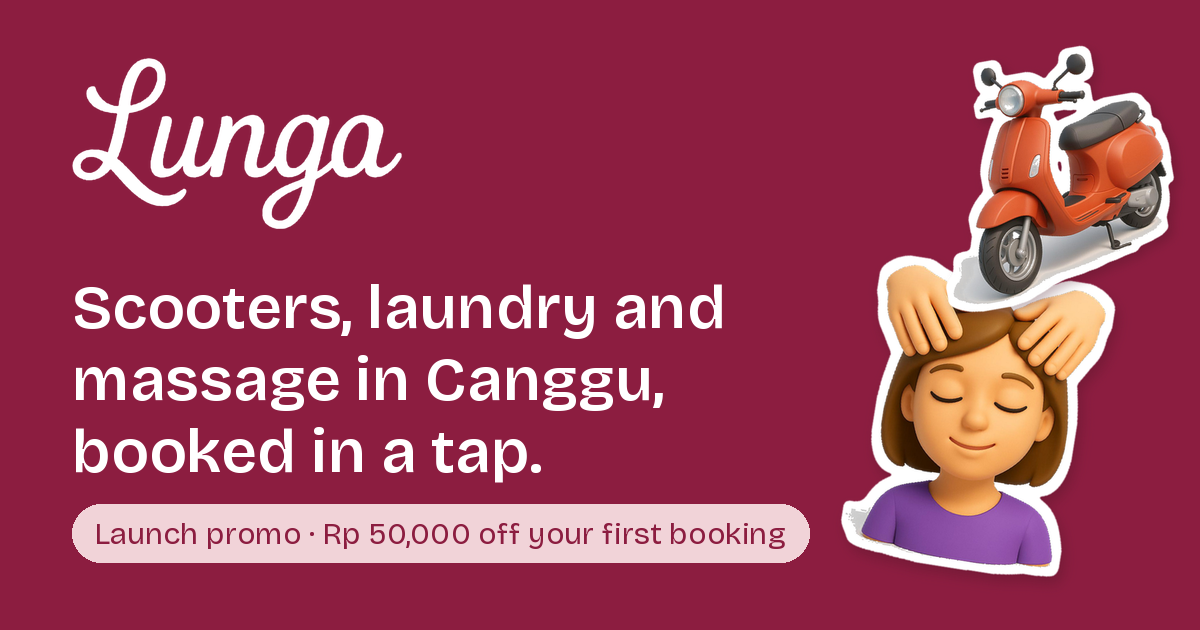
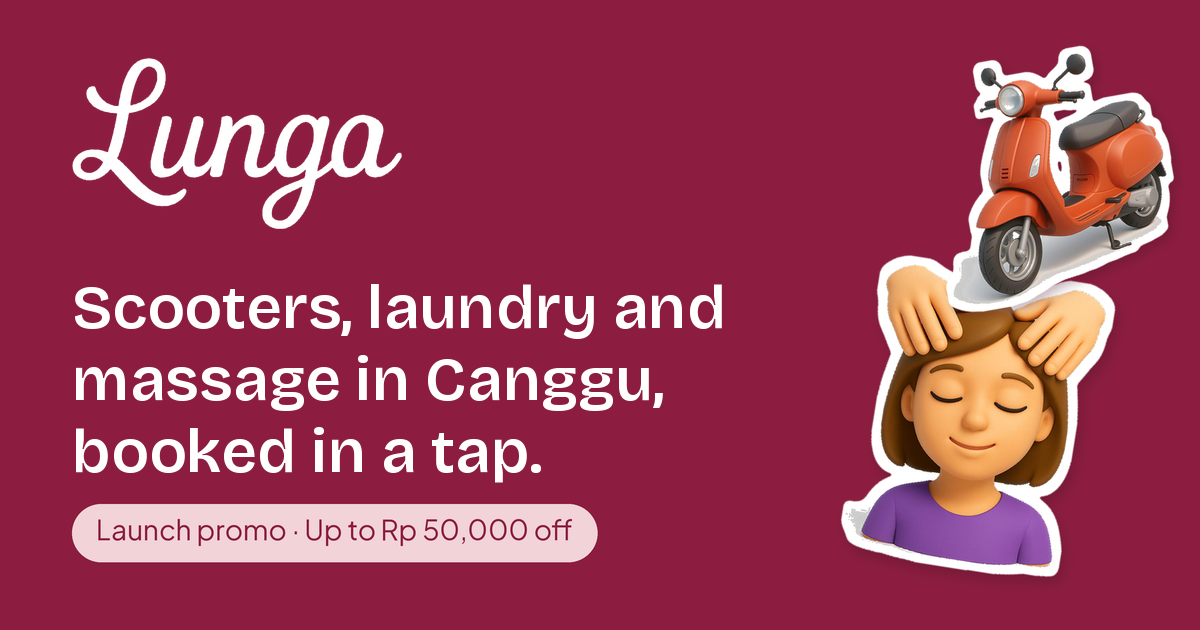
Lunga waitlist: 20% off first booking, up to Rp 50,000 (no minimum)

Changed region(s): [[0.0617, 0.7841, 0.6783, 0.9048]]

diff --git a/lunga/index.html b/lunga/index.html
@@ -4,12 +4,12 @@
 <meta charset="utf-8">
 <meta name="viewport" content="width=device-width, initial-scale=1, viewport-fit=cover">
 <title>Lunga Waitlist</title>
-<meta name="description" content="Scooters, laundry and massage in Canggu, booked in a tap. Join the waitlist for our launch promo, Rp 50,000 off your first booking.">
+<meta name="description" content="Scooters, laundry and massage in Canggu, booked in a tap. Join the waitlist for our launch promo, up to Rp 50,000 off your first booking.">
 <link rel="canonical" href="https://paradigmshiftapp.com/lunga/">
 <meta property="og:type" content="website">
 <meta property="og:site_name" content="Lunga">
 <meta property="og:title" content="Lunga · Scooters, laundry and massage in Canggu">
-<meta property="og:description" content="Scooters, laundry and massage in Canggu, booked in a tap. Join the waitlist for our launch promo, Rp 50,000 off your first booking.">
+<meta property="og:description" content="Scooters, laundry and massage in Canggu, booked in a tap. Join the waitlist for our launch promo, up to Rp 50,000 off your first booking.">
 <meta property="og:url" content="https://paradigmshiftapp.com/lunga/">
 <meta property="og:image" content="https://paradigmshiftapp.com/lunga/og.png">
 <meta property="og:image:width" content="1200">
@@ -178,9 +178,9 @@ footer .mail { user-select: all; color: var(--ink); font-weight: 600; }
   <section class="signup" id="join" aria-labelledby="join-title">
     <div id="join-form-wrap">
       <form id="waitlist-form" novalidate>
-        <span class="perk">Launch promo · Rp 50,000 off</span>
+        <span class="perk">Launch promo · Up to Rp 50,000 off</span>
         <h2 id="join-title">Join the waitlist</h2>
-        <p class="sub">Sign up before launch and we'll email you a Rp 50,000 code for your first booking of Rp 300,000 or more. Limited time only.</p>
+        <p class="sub">Sign up before launch and we'll email you a code for 20% off your first laundry, scooter or massage, up to Rp 50,000. Limited time only.</p>
         <div class="field">
           <label for="email">Email</label>
           <input id="email" name="email" type="email" autocomplete="email" inputmode="email" placeholder="you@example.com" required>
@@ -215,9 +215,9 @@ footer .mail { user-select: all; color: var(--ink); font-weight: 600; }
       </form>
     </div>
     <div id="done" class="done" hidden>
-      <span class="perk">Launch promo · Rp 50,000 off</span>
+      <span class="perk">Launch promo · Up to Rp 50,000 off</span>
       <h2 id="done-title">You're on the list</h2>
-      <p id="done-text">We'll email your Rp 50,000 code when Lunga launches. Know someone heading to Bali? Send them the link.</p>
+      <p id="done-text">We'll email your launch promo code when Lunga launches. Know someone heading to Bali? Send them the link.</p>
       <button class="ghost" type="button" id="share">Share Lunga</button>
       <p id="share-status" class="status note" role="status" aria-live="polite"></p>
     </div>
@@ -259,7 +259,7 @@ footer .mail { user-select: all; color: var(--ink); font-weight: 600; }
       <details><summary>When does Lunga launch?</summary><p>Soon. Join the waitlist and you'll be the first to know.</p></details>
       <details><summary>Where does it work?</summary><p>Canggu, Pererenan and Seseh first, then more of Bali.</p></details>
       <details><summary>How do I pay?</summary><p>By card in the app, with prices in rupiah. You pay when you book, and if a business can't take your booking, you get your money back.</p></details>
-      <details><summary>How does the launch promo work?</summary><p>Join before launch and we'll email you a code for Rp 50,000 off your first booking of Rp 300,000 or more, such as a few days' scooter rental. It's a limited-time launch promo, one code per person, while it lasts.</p></details>
+      <details><summary>How does the launch promo work?</summary><p>Join before launch and we'll email you a code for 20% off your first booking, up to Rp 50,000, whether it's a laundry, a scooter or a massage. Use it within 30 days of launch. It's a limited-time launch promo, one code per person, while it lasts.</p></details>
       <details><summary>Is there an app to download?</summary><p>Yes. Lunga is coming to iPhone and Android.</p></details>
     </div>
   </section>
@@ -299,7 +299,7 @@ const LUNGA_CONFIG = {
   function showDone(already) {
     if (already) {
       $("done-title").textContent = "You're already on the list";
-      $("done-text").textContent = "No need to sign up twice. We'll email your Rp 50,000 code when Lunga launches.";
+      $("done-text").textContent = "No need to sign up twice. We'll email your launch promo code when Lunga launches.";
     }
     $("join-form-wrap").hidden = true; $("done").hidden = false; $("done-title").setAttribute("tabindex", "-1"); $("done-title").focus();
   }
@@ -337,7 +337,7 @@ const LUNGA_CONFIG = {
 
   $("share").addEventListener("click", async () => {
     const url = LUNGA_CONFIG.shareUrl + "?ref=friend";
-    const text = "Scooters, laundry and massage in Canggu, booked in a tap. Join the Lunga waitlist for the launch promo, Rp 50,000 off your first booking.";
+    const text = "Scooters, laundry and massage in Canggu, booked in a tap. Join the Lunga waitlist for the launch promo, up to Rp 50,000 off your first booking.";
     const out = $("share-status");
     if (navigator.share) { try { await navigator.share({ title: "Lunga", text, url }); return; } catch (e) { if (e && e.name === "AbortError") return; } }
     try { await navigator.clipboard.writeText(url); out.textContent = "Link copied. Paste it in your chat."; }
